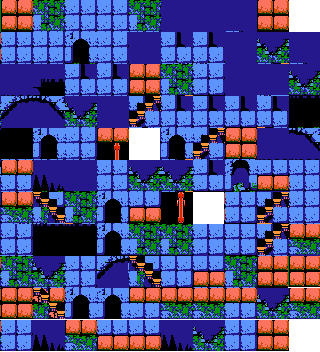
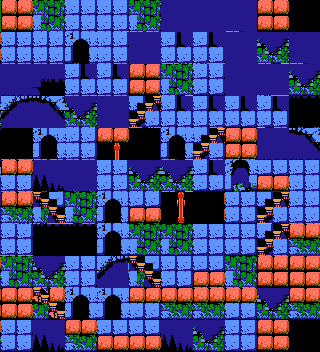
Add objects in scene 5

diff --git a/Game/PlayScence.cpp b/Game/PlayScence.cpp
@@ -859,19 +859,12 @@ void CPlayScenceKeyHandler::OnKeyDown(int KeyCode)
 			if (simon->GetSubWeapon() != (int)SubWeapon::UNKNOWN)
 			{
 				simon->SetState(SIMON_STATE_THROW);
-				break;
 			}			
 		}		
+		break;
 	}
 
 		
-	//case DIK_Q: // Upgrade whip
-	//{
-	//	simon->whip->PowerUp();
-	//	// simon->nextSceneWhip->PowerUp();
-	//	break;
-	//}
-
 	case DIK_Q: // Use Dagger
 	{
 		simon->currentSubWeapon = 7;

diff --git a/Game/VariousStair.cpp b/Game/VariousStair.cpp
@@ -10,7 +10,7 @@ CVariousStair::CVariousStair(float l, float t, float r, float b)
 
 void CVariousStair::Render()
 {
-	//RenderBoundingBox();
+	RenderBoundingBox();
 }
 
 void CVariousStair::GetBoundingBox(float& l, float& t, float& r, float& b)

diff --git a/Game/ItemBigHeart.h b/Game/ItemBigHeart.h
@@ -1,7 +1,7 @@
 #pragma once
 #include "GameObject.h"
 
-#define ITEM_BIG_HEART_BBOX_WIDTH		12
+#define ITEM_BIG_HEART_BBOX_WIDTH		10
 #define ITEM_BIG_HEART_BBOX_HEIGHT	10
 
 class ItemBigHeart:public CGameObject

diff --git a/Game/Brick.cpp b/Game/Brick.cpp
@@ -3,7 +3,7 @@
 void CBrick::Render()
 {
 	 //animation_set->at(0)->Render(x, y);
-	//RenderBoundingBox();
+	RenderBoundingBox();
 }
 
 void CBrick::GetBoundingBox(float &l, float &t, float &r, float &b)

diff --git a/Game/Bones.cpp b/Game/Bones.cpp
@@ -2,7 +2,7 @@
 
 CBones::CBones()
 {
-
+	SetVisible(false);
 }
 
 void CBones::GetBoundingBox(float& left, float& top, float& right, float& bottom)
